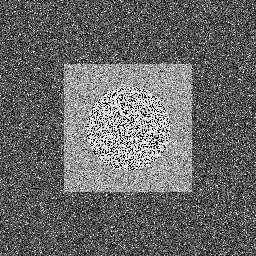
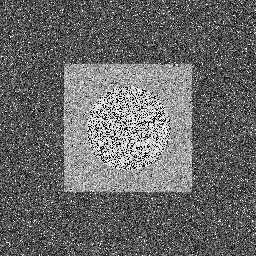
adaptive

diff --git a/controllers/StatisticalOrderController.py b/controllers/StatisticalOrderController.py
@@ -27,6 +27,8 @@ class StatisticalOrderController:
                 out_img2 = a.mean_filtering(out_img1, windowsize)
             elif filtertype == 'median':
                 out_img2 = a.median_filtering(out_img1, windowsize)
+            elif filtertype == 'adaptive':
+                out_img2 = a.adaptive_filter(out_img1, windowsize)
         else:
             out_img2 = a.mean_filtering(out_img1, windowsize)
         # elif filtertype=='adaptive':
@@ -108,7 +110,28 @@ class StatisticalOrderController:
                 new_img[i - size, j - size] = np.mean(l)
         new_img = new_img.astype(np.uint8)
         return new_img
+    def adaptive_filter(self,img,window_size):
+        x, y = np.shape(img)
+        new_img = np.zeros((x, y))
+        ns=[]
+        for i in range(0,50):
+            for j in range(0,100):
+                ns.append(img[i,j])
+        vn=np.var(ns)
+        size = int((window_size - 1) / 2)
+        padded_img = self.img_padding(img, size, 0)
+        for i in range(size, x + size):
+            for j in range(size, y + size):
+                l = []
+                for m in range(-1 * size, size + 1):
+                    for n in range(-1 * size, size + 1):
+                        l.append(padded_img[i + m, j + n])
+                vl=np.var(l)+1
 
+                ml=np.mean(l)
+                new_img[i - size, j - size] = padded_img[i,j] - (vn/vl)*(padded_img[i,j]-ml)
+        new_img = new_img.astype(np.uint8)
+        return new_img
     def ssim(self, img1, img2):
         l1 = []
         l2 = []
